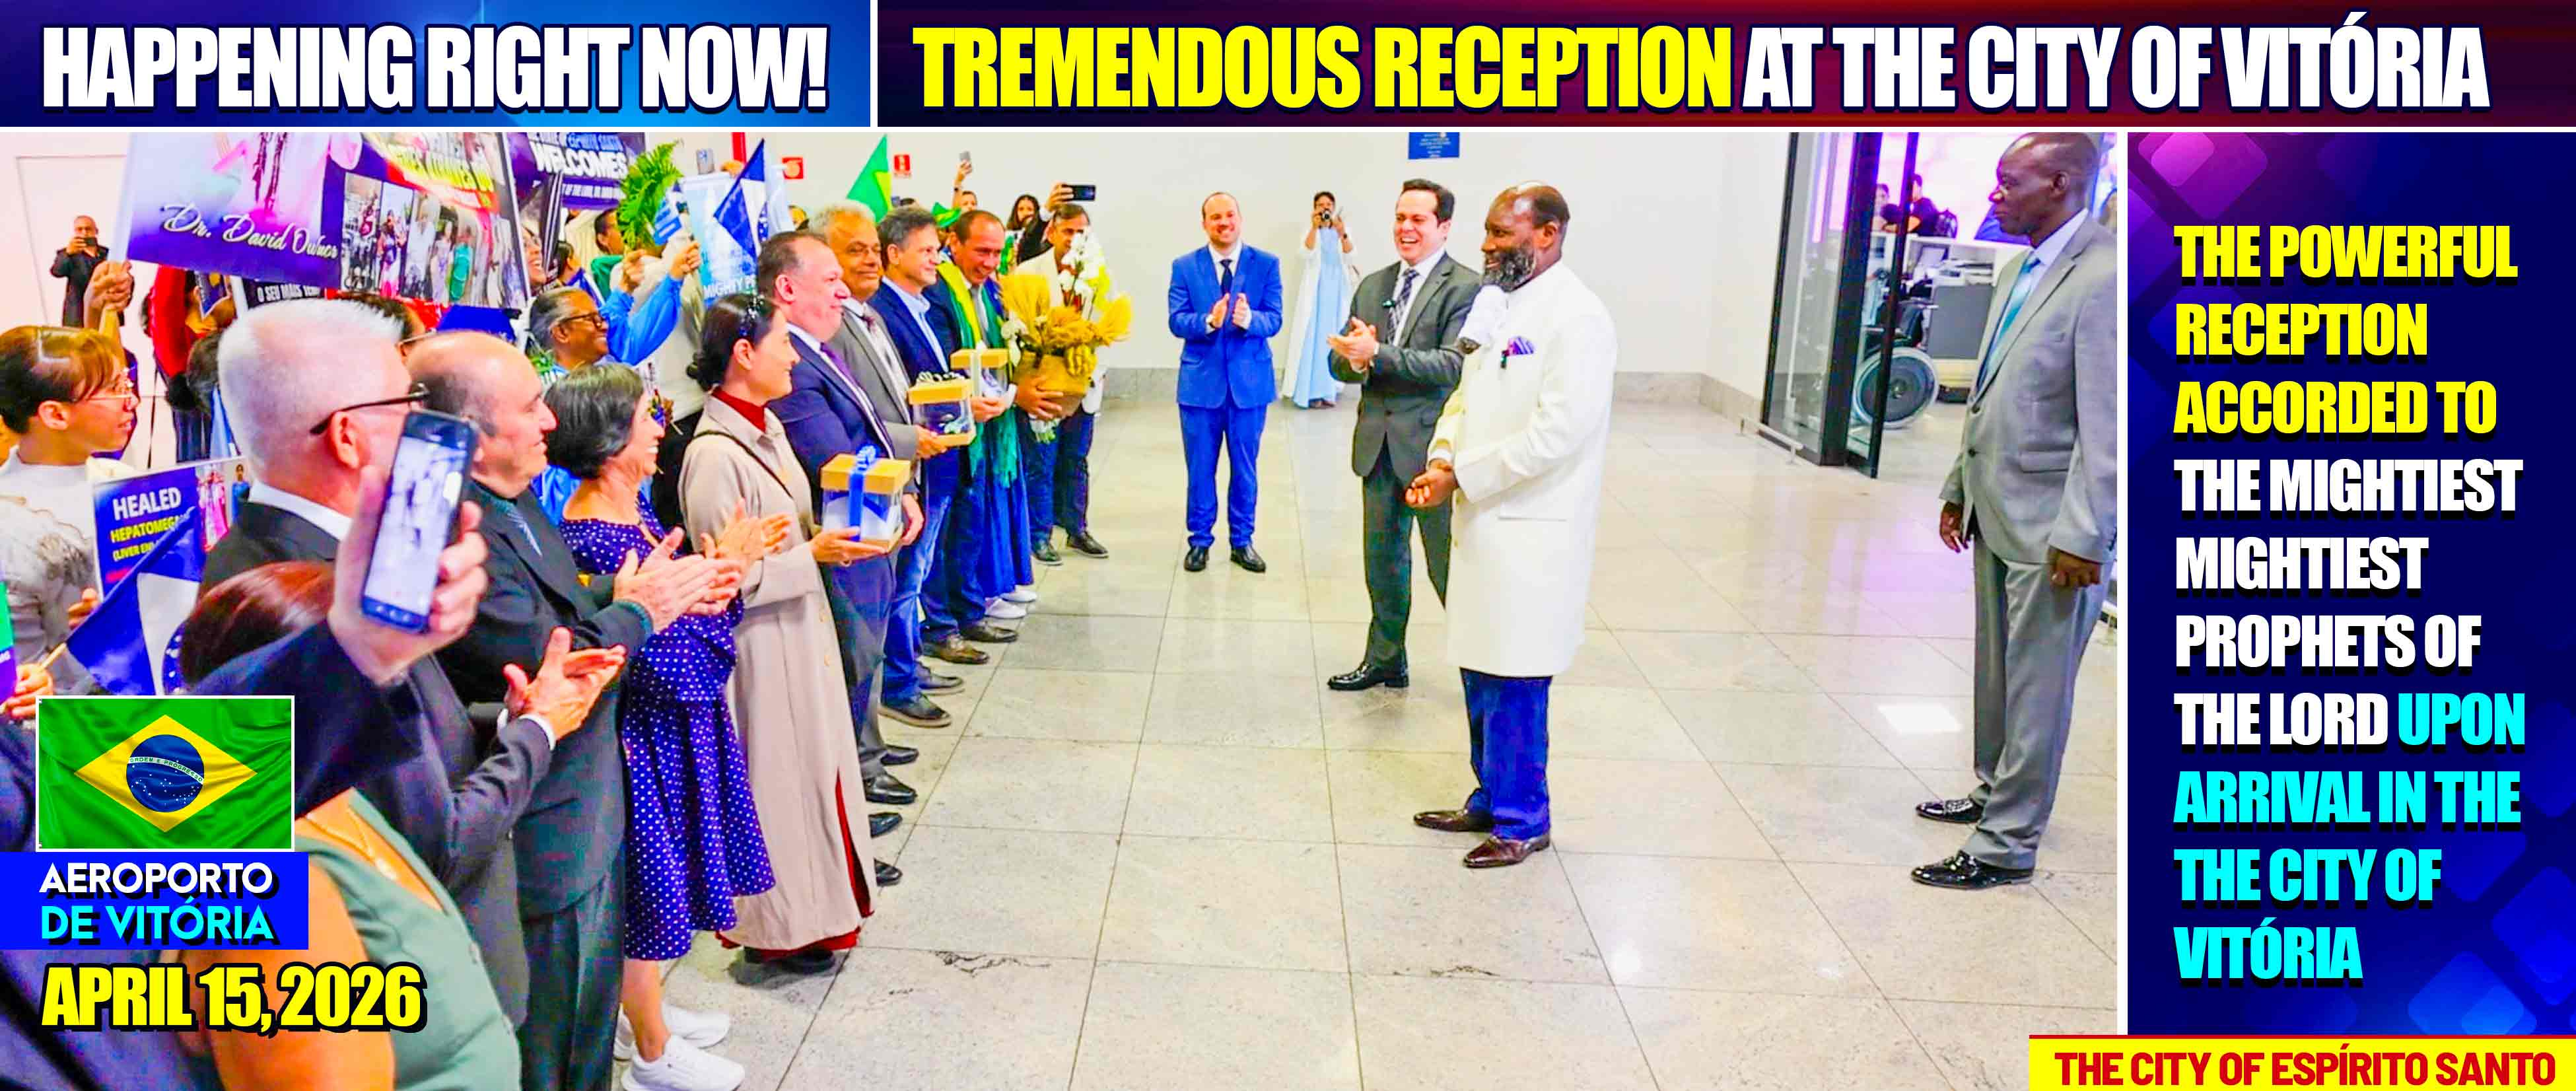
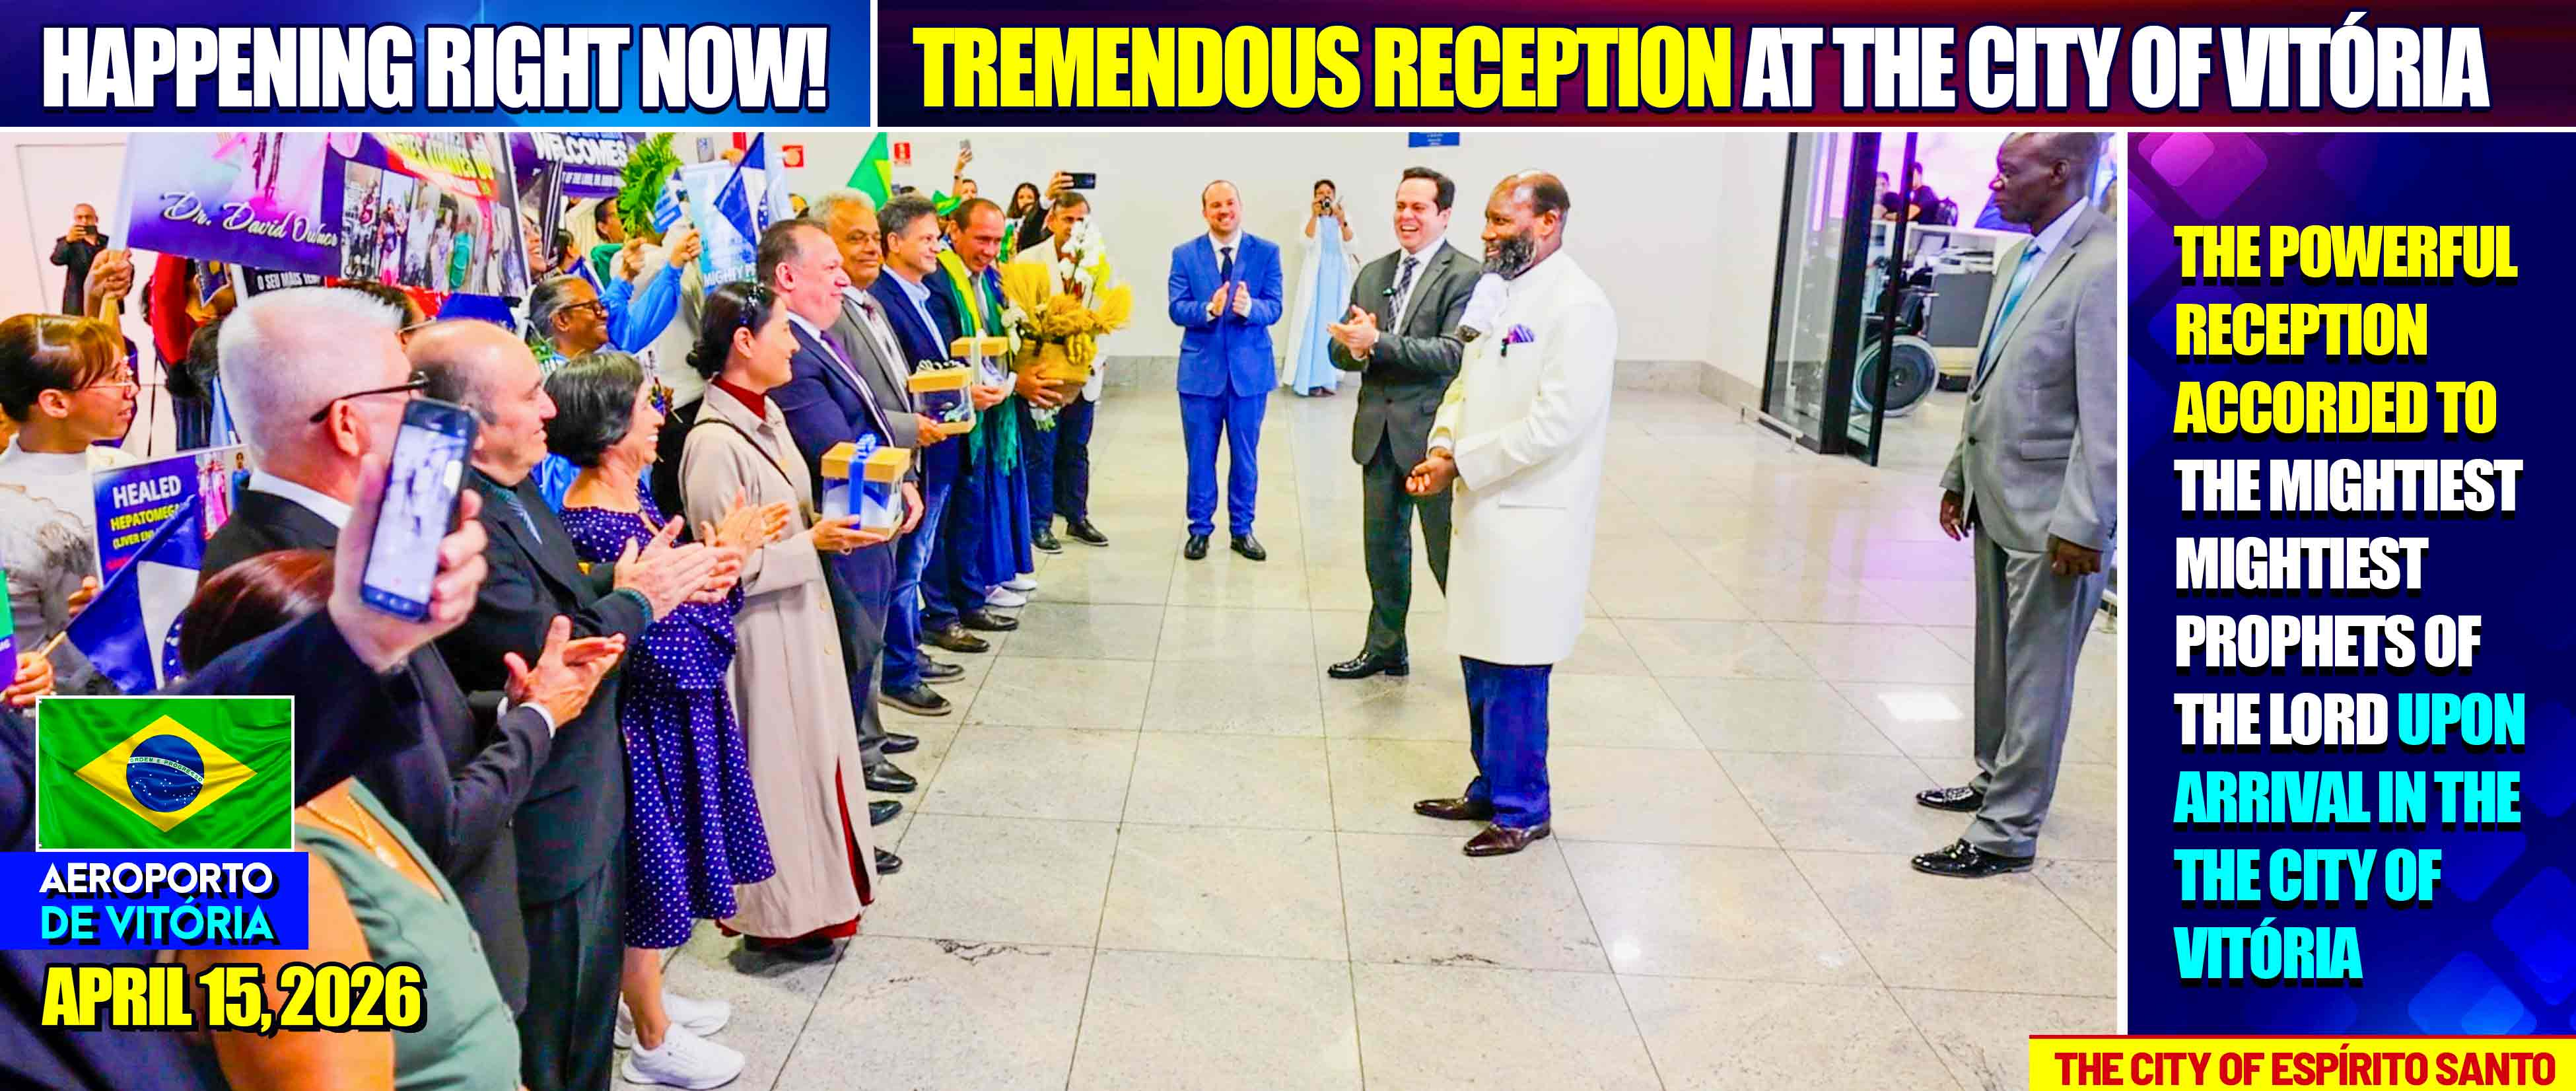
new slides

diff --git a/index.html b/index.html
@@ -11,7 +11,7 @@
 
 
 <img class="slideshow" src= "https://pub-9f92551086574e82abebdc7b9c83cf92.r2.dev/Abidjan%202026/2.%20Yammoussukro%20Arrival/Skyline---Flag.jpg" alt="Unstable internet, please refresh the browser">
-<img class="slideshow" src= "https://pub-9f92551086574e82abebdc7b9c83cf92.r2.dev/Abidjan%202026/2.%20Yammoussukro%20Arrival/Skyline---Flag.jpg" alt="Unstable internet, please refresh the browser">
+<img class="slideshow" src= "https://pub-9f92551086574e82abebdc7b9c83cf92.r2.dev/Brazil%202026/2.%20Vitoria%20Arrival/1.jpg" alt="Unstable internet, please refresh the browser">
 
 
 <img class="slideshow" src= "https://pub-9f92551086574e82abebdc7b9c83cf92.r2.dev/Abidjan%202026/2.%20Yammoussukro%20Arrival/Skyline---Flag.jpg" alt="Unstable internet, please refresh the browser">